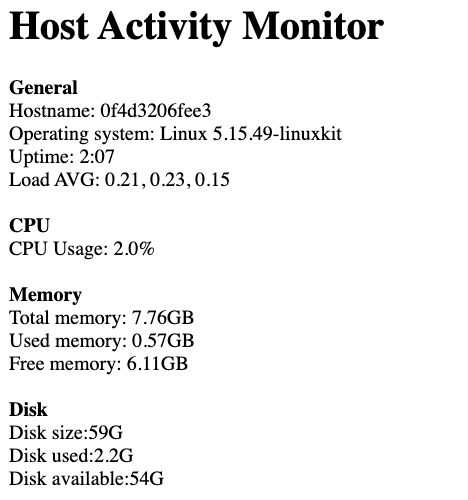
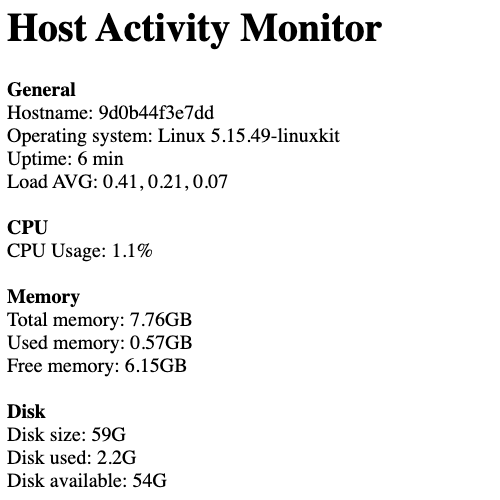
Fixed typo and updated screenshot

diff --git a/src/main/java/com/spring/app/hoststatus/resource/HostResources.java b/src/main/java/com/spring/app/hoststatus/resource/HostResources.java
@@ -68,9 +68,9 @@ public class HostResources {
             double cpu = getProcessCpuLoad();
             cpuUsage = "CPU Usage: " + cpu +"%" + newLine;
 
-            diskSize = "Disk size:" + runCommand("df -h . | tail -1 | awk '{print $2}'") + newLine;
-            diskUsed = "Disk used:" + runCommand("df -h . | tail -1 | awk '{print $3}'") + newLine;
-            diskAvailable = "Disk available:" + runCommand("df -h . | tail -1 | awk '{print $4}'") + newLine;
+            diskSize = "Disk size: " + runCommand("df -h . | tail -1 | awk '{print $2}'") + newLine;
+            diskUsed = "Disk used: " + runCommand("df -h . | tail -1 | awk '{print $3}'") + newLine;
+            diskAvailable = "Disk available: " + runCommand("df -h . | tail -1 | awk '{print $4}'") + newLine;
 
         } catch (UnknownHostException e) {
             e.printStackTrace();

diff --git a/README.md b/README.md
@@ -10,7 +10,7 @@ The purpose of this project is to show the `Docker Multi Stage Build` concept an
 The way to show this is to build the Docker image twice: once without multi-stage build, and the other with it, and then compare between the images.  
 
 ### Screenshot
-<img src="screenshot.png" alt="screenshot" width="351" height="375">
+<img src="screenshot.png" alt="screenshot" width="375" height="375">
 
 ### Prerequisites
 * Docker  
